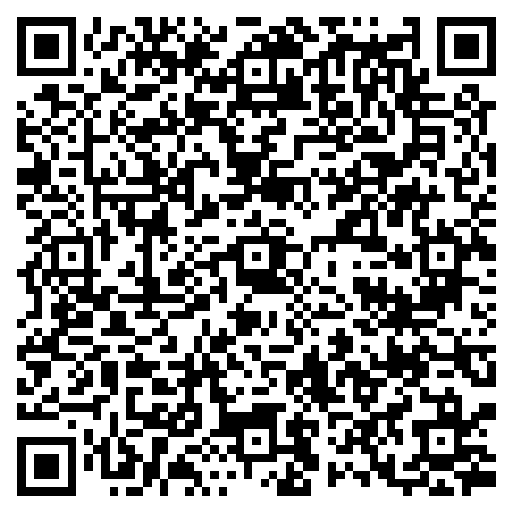
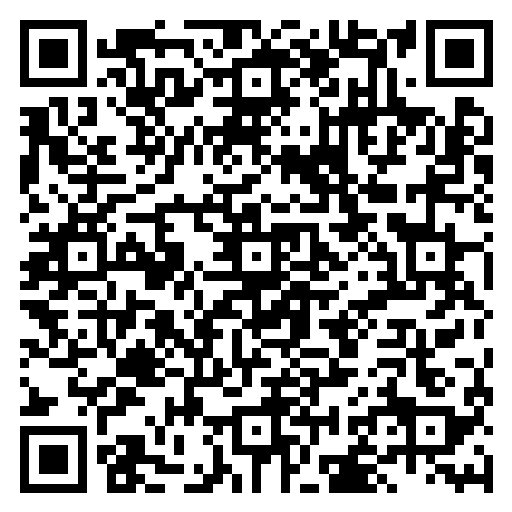
Route venue directions through Apple Maps on iOS and Google Maps elsewhere.
Add a directions redirect page and point the QR and direction links at it so guests navigate from their current location on iPhone and Android.

diff --git a/index.html b/index.html
@@ -173,7 +173,7 @@
                 <p>Morning turmeric blessings at the tent area, followed by lunch.</p>
                 <div class="event-meta">
                   <p class="event-meta-venue"><strong>Samarambh Lawns</strong> · Tent Area · Thane</p>
-                  <a class="event-directions" href="https://www.google.com/maps/dir/?api=1&amp;destination=Samarambh+Lawns%2C+Thane%2C+Maharashtra%2C+India&amp;travelmode=driving" target="_blank" rel="noopener noreferrer">Directions →</a>
+                  <a class="event-directions" href="directions.html" target="_blank" rel="noopener noreferrer">Directions →</a>
                 </div>
               </div>
             </article>
@@ -188,7 +188,7 @@
                 <p>An evening of music and dance in the first-floor banquet hall.</p>
                 <div class="event-meta">
                   <p class="event-meta-venue"><strong>Samarambh Lawns</strong> · Banquet Hall, First Floor · Thane</p>
-                  <a class="event-directions" href="https://www.google.com/maps/dir/?api=1&amp;destination=Samarambh+Lawns%2C+Thane%2C+Maharashtra%2C+India&amp;travelmode=driving" target="_blank" rel="noopener noreferrer">Directions →</a>
+                  <a class="event-directions" href="directions.html" target="_blank" rel="noopener noreferrer">Directions →</a>
                 </div>
               </div>
             </article>
@@ -207,7 +207,7 @@
                 <p>Morning rituals from 8 AM, muhurta at 12:05 PM, followed by lunch.</p>
                 <div class="event-meta">
                   <p class="event-meta-venue"><strong>Samarambh Lawns</strong> · Thane, Maharashtra</p>
-                  <a class="event-directions" href="https://www.google.com/maps/dir/?api=1&amp;destination=Samarambh+Lawns%2C+Thane%2C+Maharashtra%2C+India&amp;travelmode=driving" target="_blank" rel="noopener noreferrer">Directions →</a>
+                  <a class="event-directions" href="directions.html" target="_blank" rel="noopener noreferrer">Directions →</a>
                 </div>
               </div>
             </article>
@@ -222,7 +222,7 @@
                 <p>An evening celebration with family and friends, followed by dinner.</p>
                 <div class="event-meta">
                   <p class="event-meta-venue"><strong>Samarambh Lawns</strong> · Thane, Maharashtra</p>
-                  <a class="event-directions" href="https://www.google.com/maps/dir/?api=1&amp;destination=Samarambh+Lawns%2C+Thane%2C+Maharashtra%2C+India&amp;travelmode=driving" target="_blank" rel="noopener noreferrer">Directions →</a>
+                  <a class="event-directions" href="directions.html" target="_blank" rel="noopener noreferrer">Directions →</a>
                 </div>
               </div>
             </article>
@@ -248,10 +248,10 @@
             <p class="location-address">Thane, Maharashtra</p>
             <p class="location-note">Platform 9¾ was booked - the map leads to Samarambh Lawns, Thane instead, where Haldi, Sangeet, Wedding and Reception are held. Routes from Mumbai, Borivali, Ahmedabad and Nashik on the map. No Portkeys. Floo Network offline. Owls politely declined at the gate.</p>
             <div class="location-actions">
-              <a class="event-directions location-maps-link" href="https://www.google.com/maps/dir/?api=1&amp;destination=Samarambh+Lawns%2C+Thane%2C+Maharashtra%2C+India&amp;travelmode=driving" target="_blank" rel="noopener noreferrer">Muggle navigation →</a>
+              <a class="event-directions location-maps-link" href="directions.html" target="_blank" rel="noopener noreferrer">Muggle navigation →</a>
               <div class="location-qr">
-                <a class="location-qr-link" href="https://www.google.com/maps/dir/?api=1&amp;destination=Samarambh+Lawns%2C+Thane%2C+Maharashtra%2C+India&amp;travelmode=driving" target="_blank" rel="noopener noreferrer" aria-label="Open Samarambh Lawns in Google Maps">
-                  <img src="assets/samarambh-qr.png" alt="QR code for Samarambh Lawns directions - tap or scan to open in Google Maps" width="120" height="120" decoding="async">
+                <a class="location-qr-link" href="directions.html" target="_blank" rel="noopener noreferrer" aria-label="Open directions to Samarambh Lawns in Maps">
+                  <img src="assets/samarambh-qr.png" alt="QR code for Samarambh Lawns directions - tap or scan to open in Maps" width="120" height="120" decoding="async">
                 </a>
                 <p>Floo offline - tap or scan for directions</p>
               </div>

diff --git a/directions.html b/directions.html
@@ -1,0 +1,44 @@
+<!DOCTYPE html>
+<html lang="en">
+<head>
+  <meta charset="UTF-8">
+  <meta name="viewport" content="width=device-width, initial-scale=1.0">
+  <title>Directions to Samarambh Lawns</title>
+  <meta name="robots" content="noindex">
+  <script>
+    (function () {
+      var place = "Samarambh Lawns, Thane, Maharashtra, India";
+      var encoded = encodeURIComponent(place);
+      var ua = navigator.userAgent || "";
+      var isApple = /iPad|iPhone|iPod/.test(ua)
+        || (navigator.platform === "MacIntel" && navigator.maxTouchPoints > 1);
+      var url = isApple
+        ? "https://maps.apple.com/?daddr=" + encoded + "&dirflg=d"
+        : "https://www.google.com/maps/dir/?api=1&destination=" + encoded + "&travelmode=driving";
+      window.location.replace(url);
+    })();
+  </script>
+</head>
+<body>
+  <p style="font-family: system-ui, sans-serif; padding: 24px; text-align: center;">
+    Opening directions&hellip;
+    <br><br>
+    <a id="fallback" href="https://www.google.com/maps/dir/?api=1&amp;destination=Samarambh+Lawns,+Thane,+Maharashtra,+India&amp;travelmode=driving">Tap here if nothing opens</a>
+  </p>
+  <script>
+    (function () {
+      var place = "Samarambh Lawns, Thane, Maharashtra, India";
+      var encoded = encodeURIComponent(place);
+      var ua = navigator.userAgent || "";
+      var isApple = /iPad|iPhone|iPod/.test(ua)
+        || (navigator.platform === "MacIntel" && navigator.maxTouchPoints > 1);
+      var link = document.getElementById("fallback");
+      if (link) {
+        link.href = isApple
+          ? "https://maps.apple.com/?daddr=" + encoded + "&dirflg=d"
+          : "https://www.google.com/maps/dir/?api=1&destination=" + encoded + "&travelmode=driving";
+      }
+    })();
+  </script>
+</body>
+</html>
